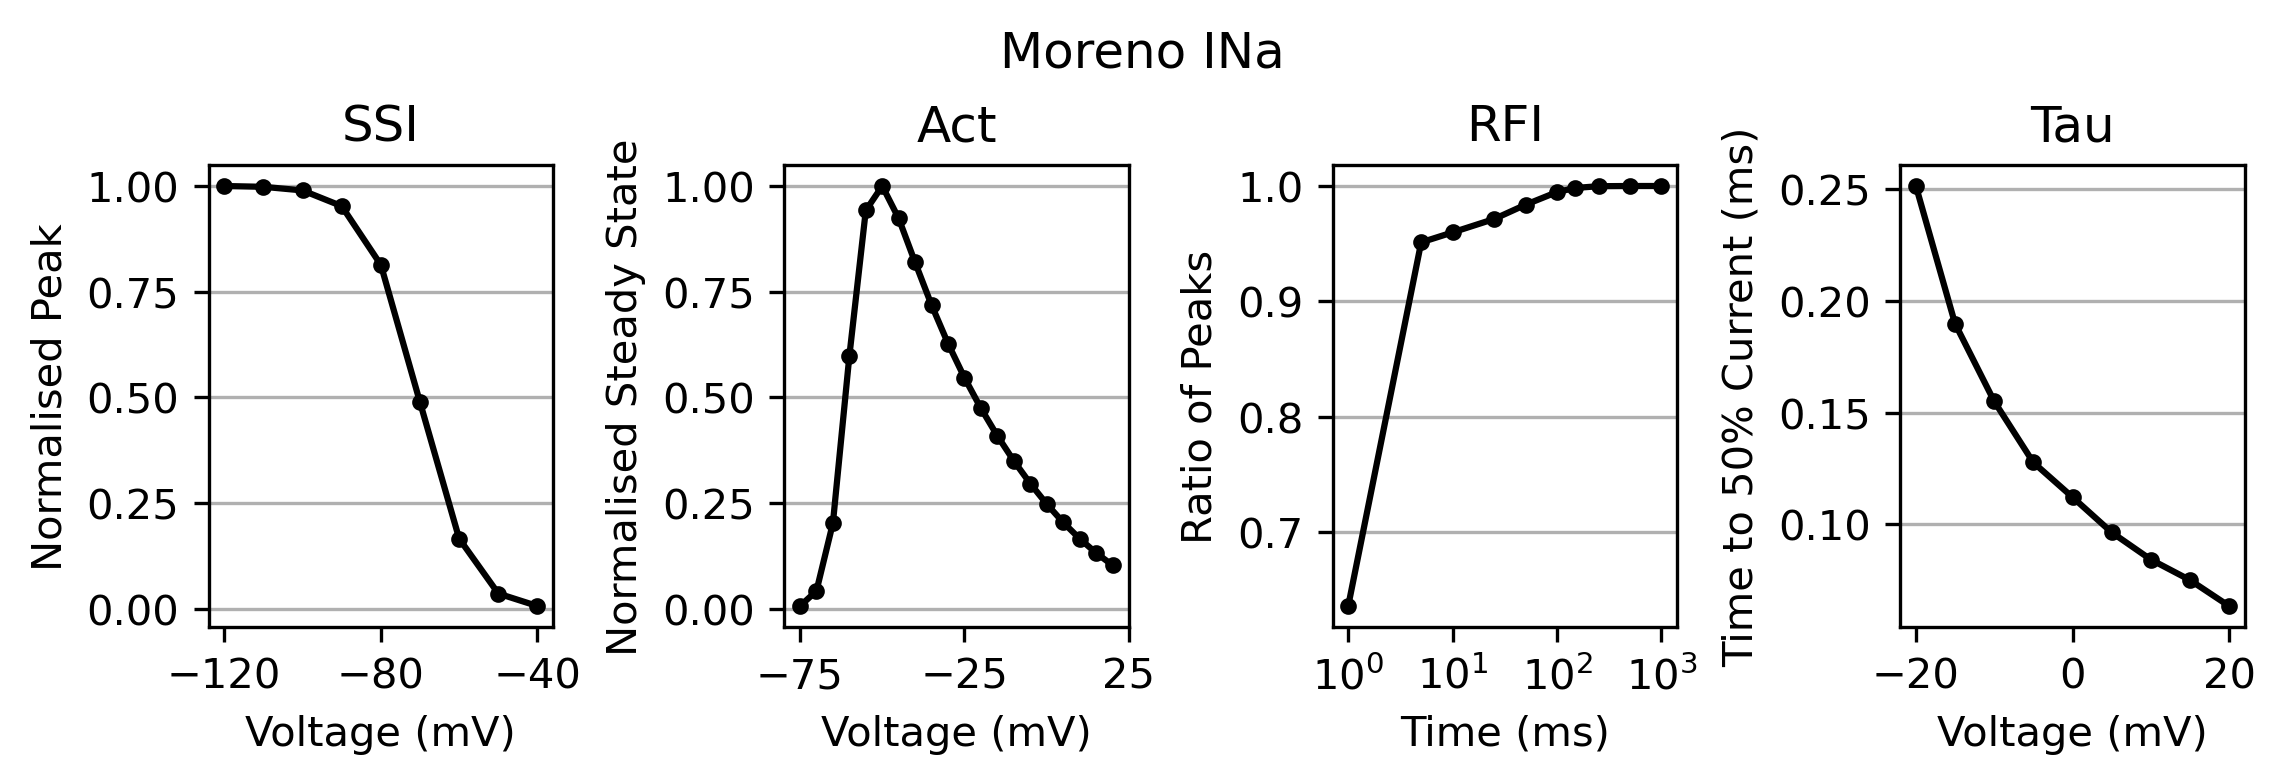
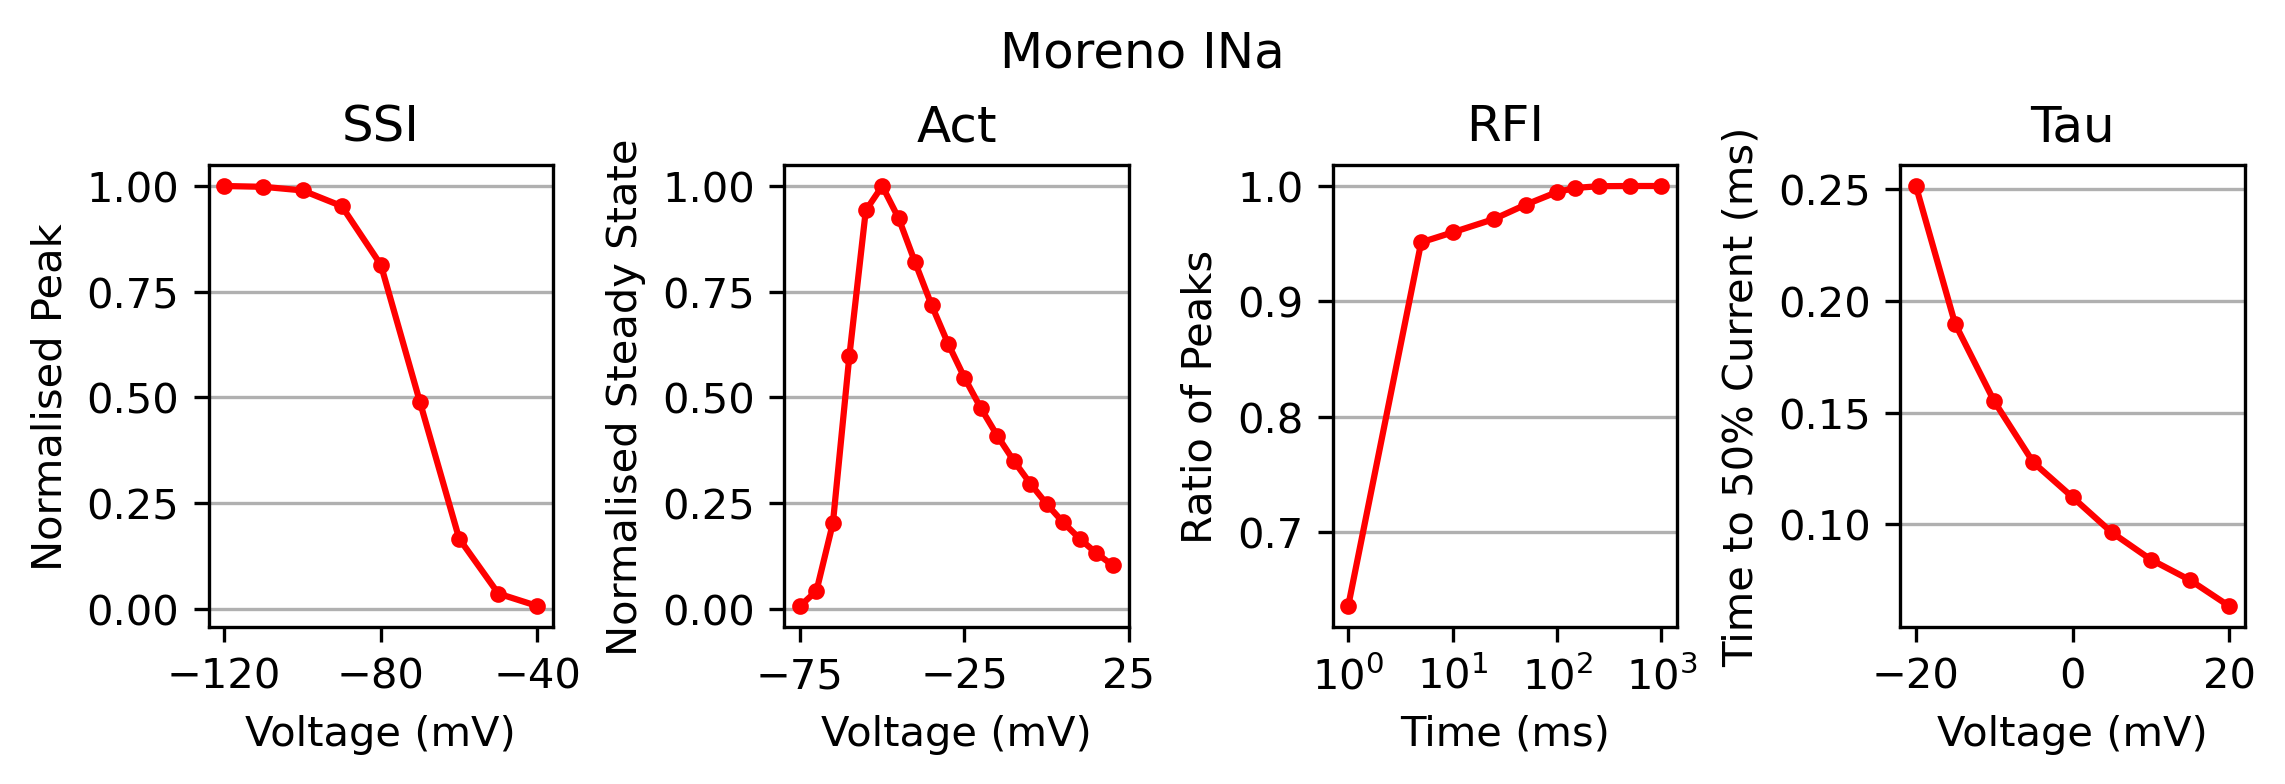
changed moreno data plot to red
to match data (current) for other problems

diff --git a/scripts/plotCurrent.py b/scripts/plotCurrent.py
@@ -50,7 +50,7 @@ def plot_moreno(axs, xLabels, xCoords, titles, yLabels, xTicks):
     for i in range(len(lengths)):
         indexes = np.arange(sum(lengths[:i]), sum(lengths[:i+1]))
         current = data[indexes]
-        axs[f'm{i}'].plot(xCoords[i], current, 'k.-')
+        axs[f'm{i}'].plot(xCoords[i], current, 'r.-')
         if i == 2:
             axs[f'm{i}'].set_xscale('log')
         axs[f'm{i}'].set_xlabel(xLabels[i])
